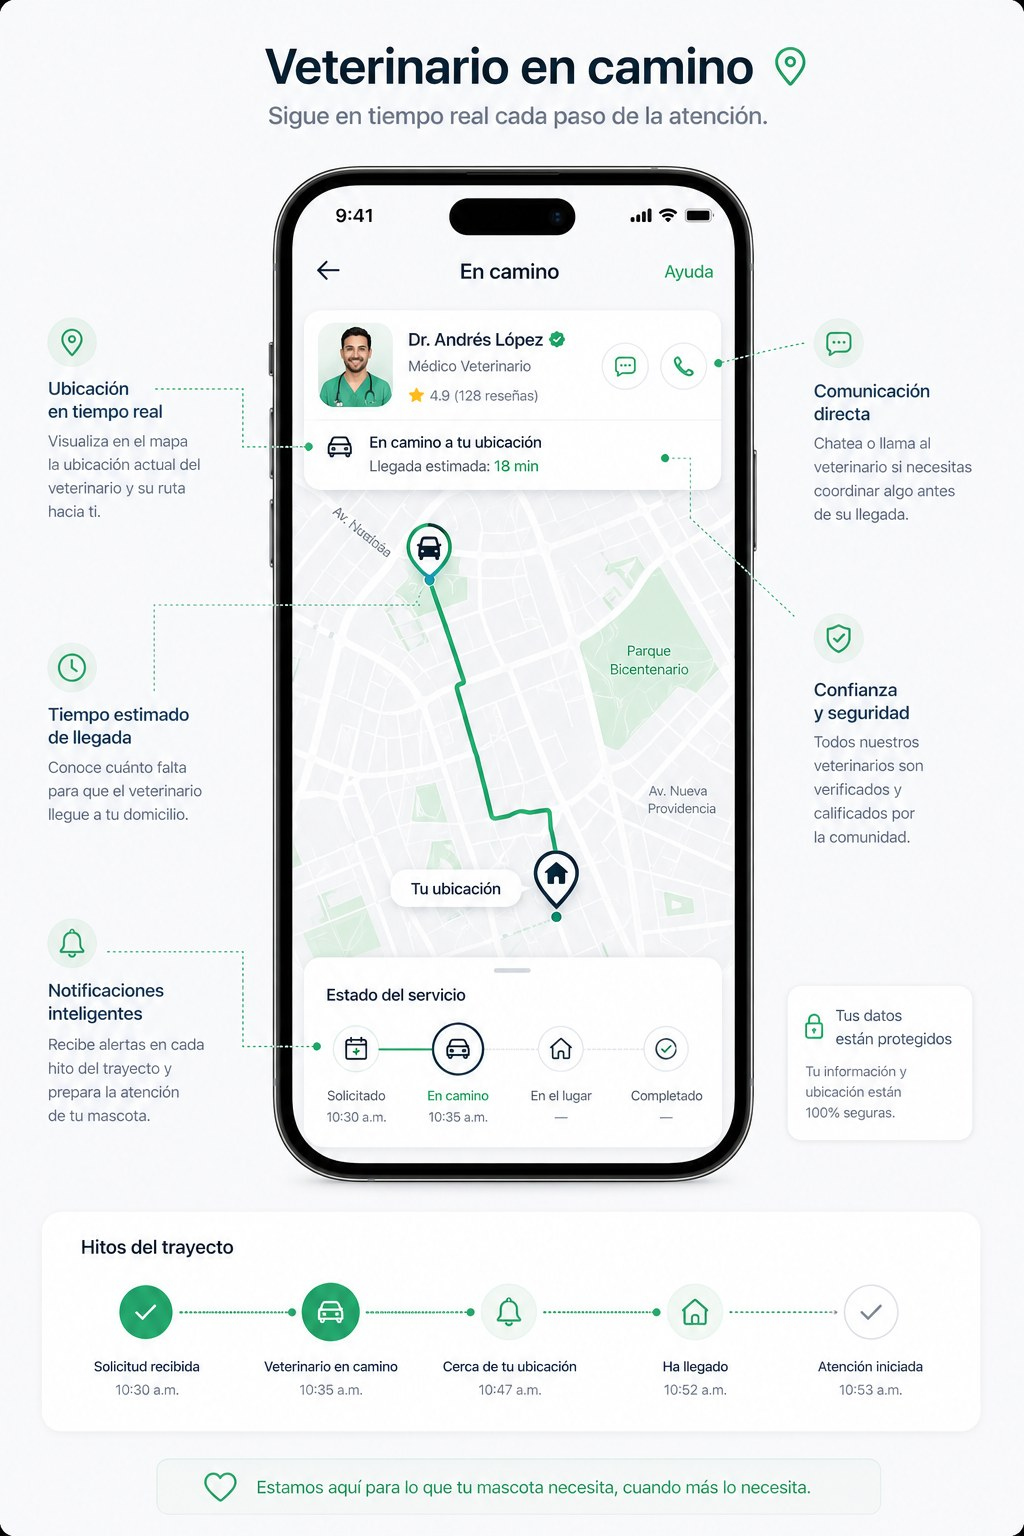
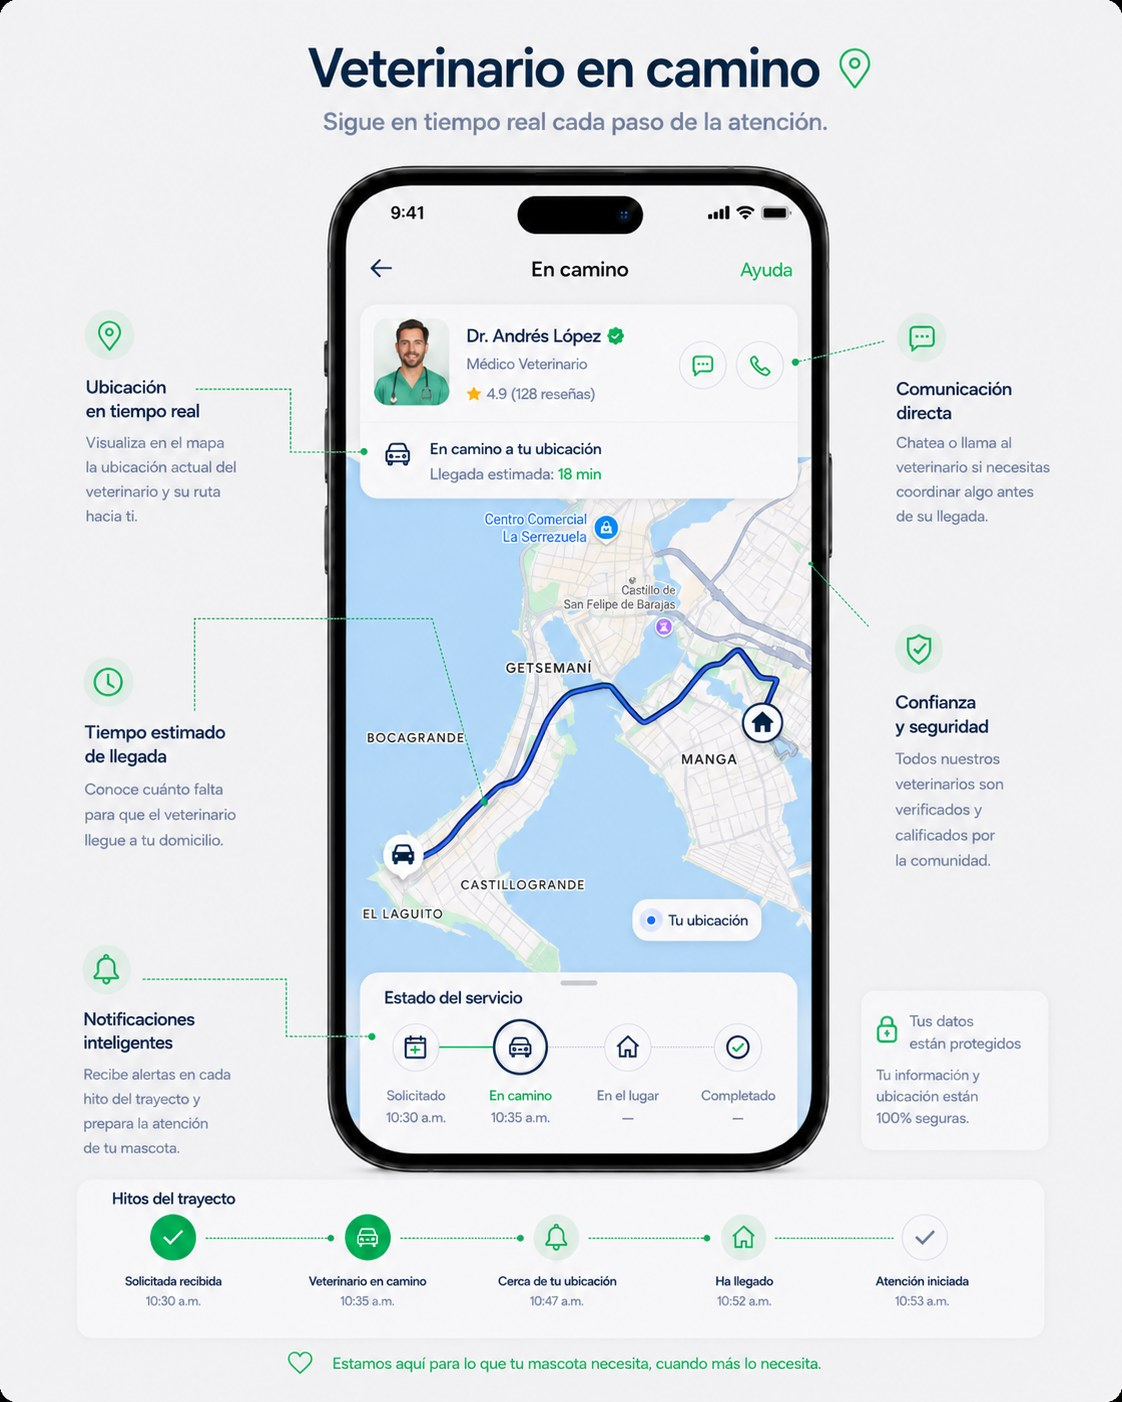
fix(nvetcareapp): replace the map mockup with a corrected Cartagena version
The user supplied a corrected export of the "Veterinario en camino"
mockup with the background map re-rendered over real Cartagena de Indias
landmarks (Getsemaní, Bocagrande, Manga, Castillogrande, El Laguito,
Castillo de San Felipe de Barajas) instead of the Santiago, Chile
labels the original asset carried. That removes the city contradiction
this image previously required an explicit, informed exception for.

Swaps public/images/nvetcareapp/vet-tracking-full.jpg for the corrected
export and updates its width/height (1122x1402, a different aspect ratio
than the original crop) so next/image doesn't distort it.

diff --git a/src/components/sections/NvetCareAppSection.tsx b/src/components/sections/NvetCareAppSection.tsx
@@ -399,8 +399,8 @@ export const NvetCareAppSection: React.FC = () => {
                 <Image
                   src="/images/nvetcareapp/vet-tracking-full.jpg"
                   alt={copy.mapTrackingFullAlt}
-                  width={1024}
-                  height={1536}
+                  width={1122}
+                  height={1402}
                   sizes="(min-width: 640px) 380px, 90vw"
                   className="h-auto w-full"
                 />
